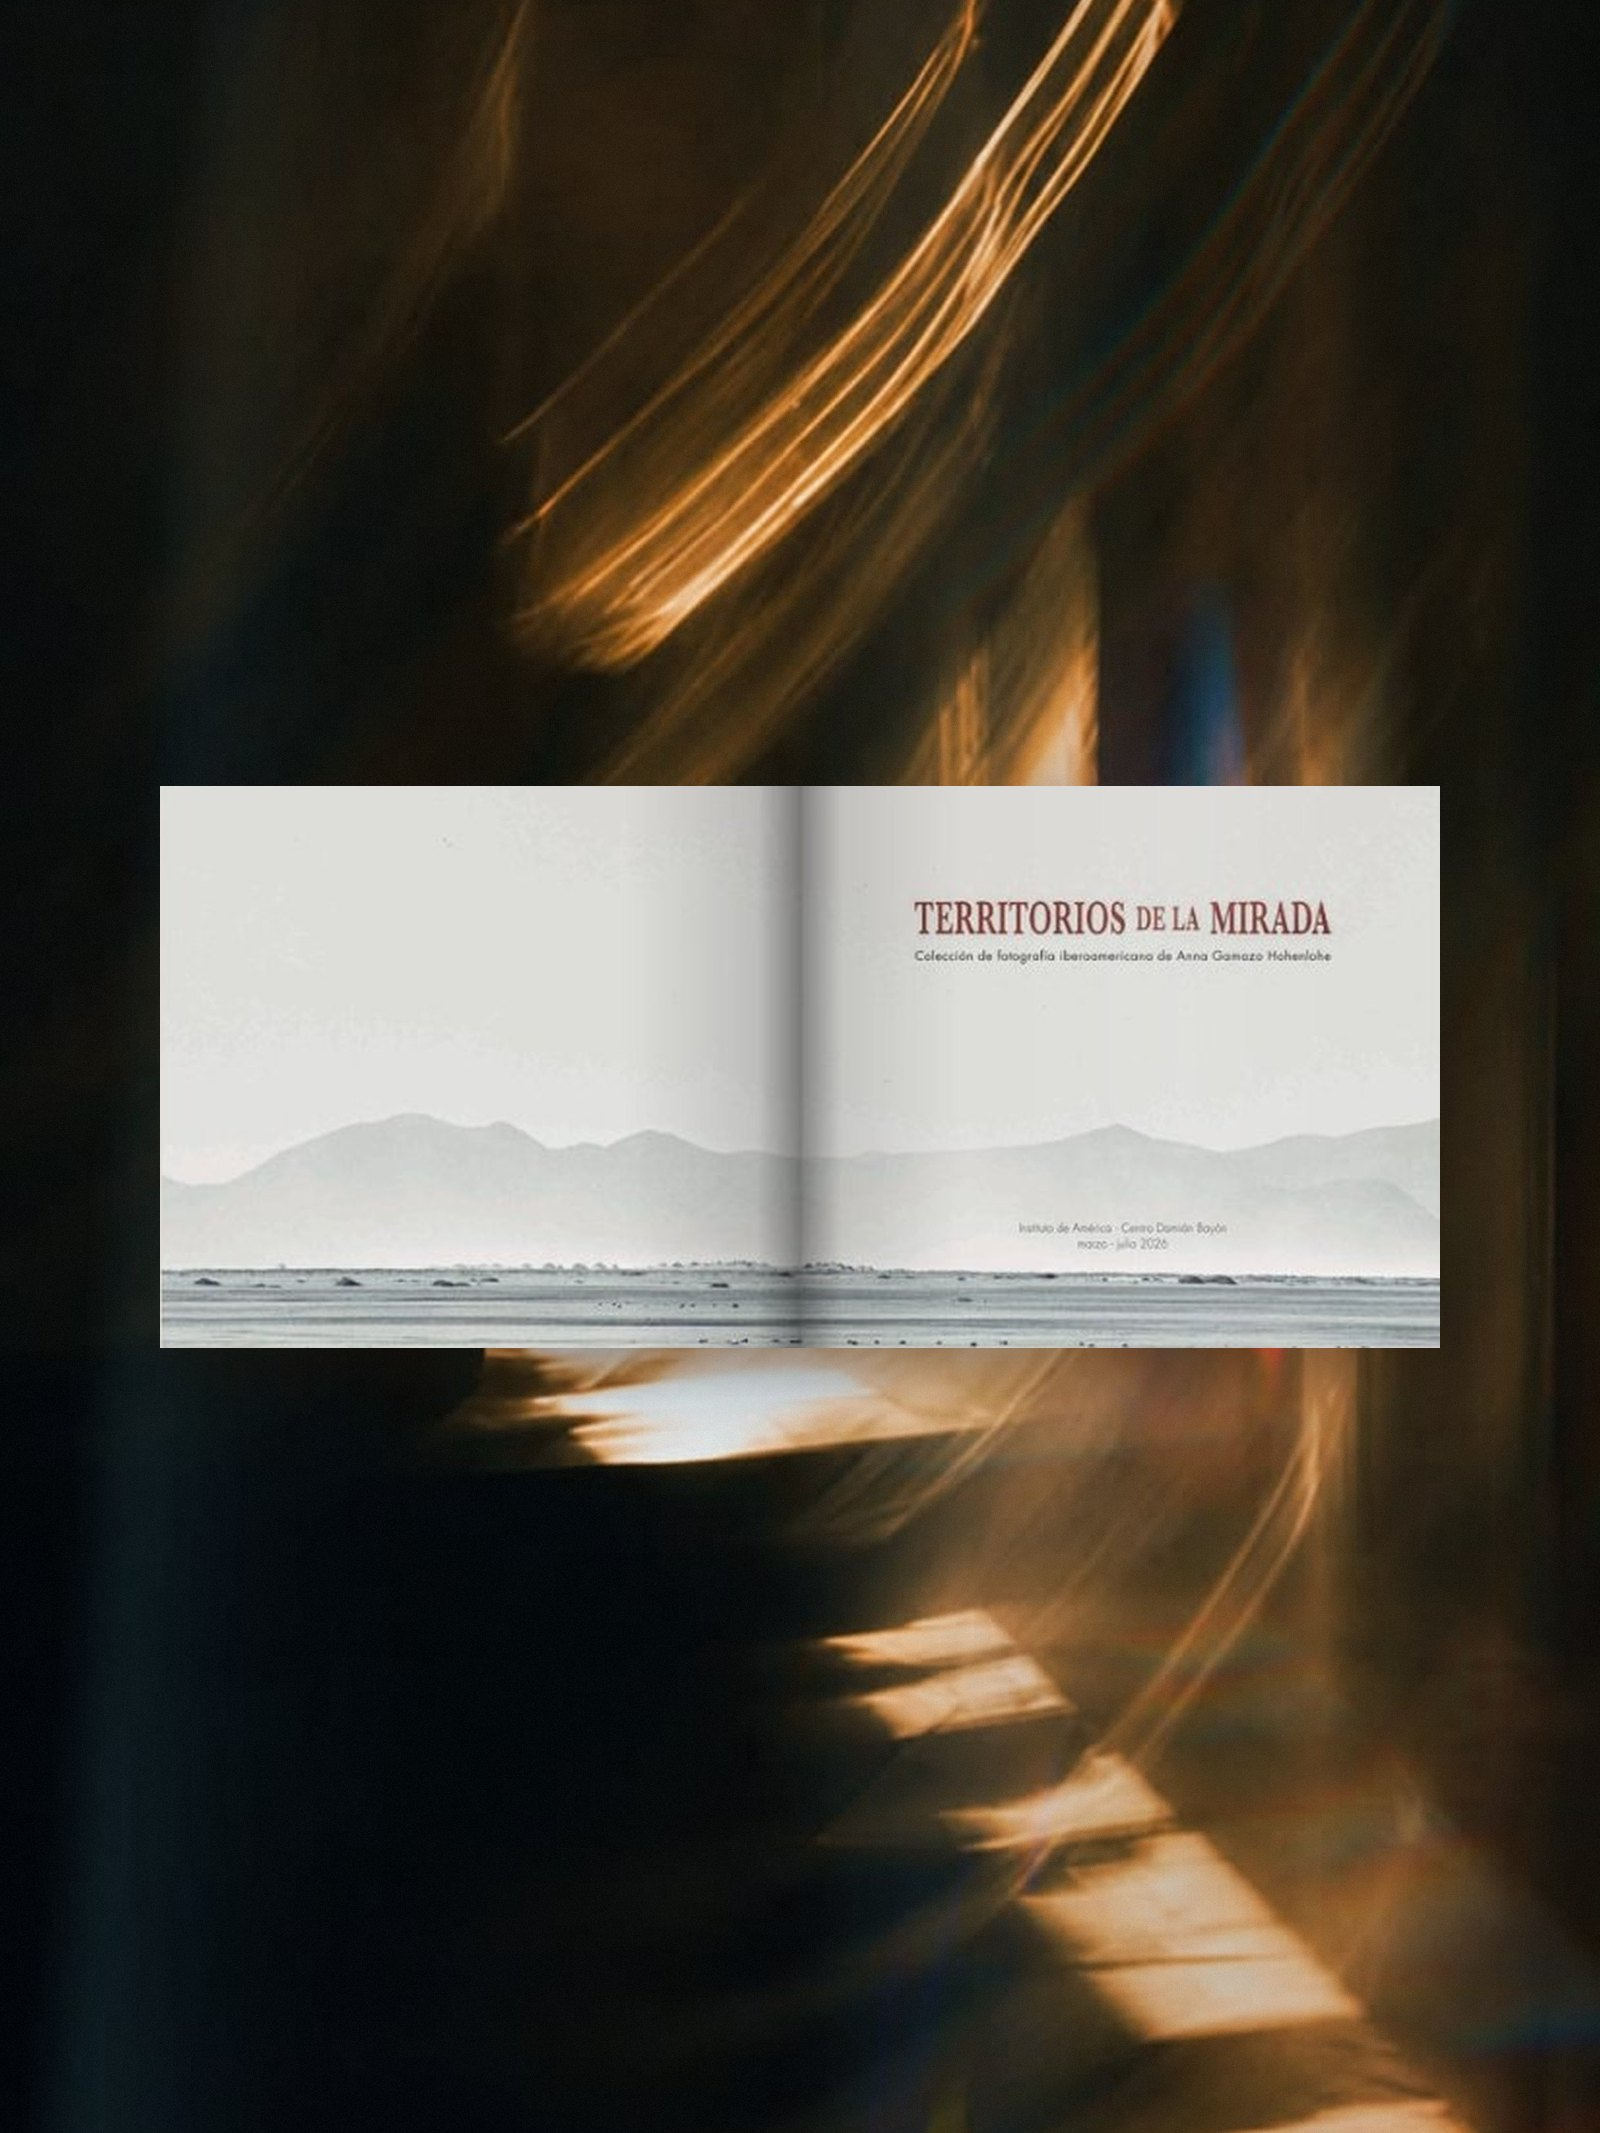
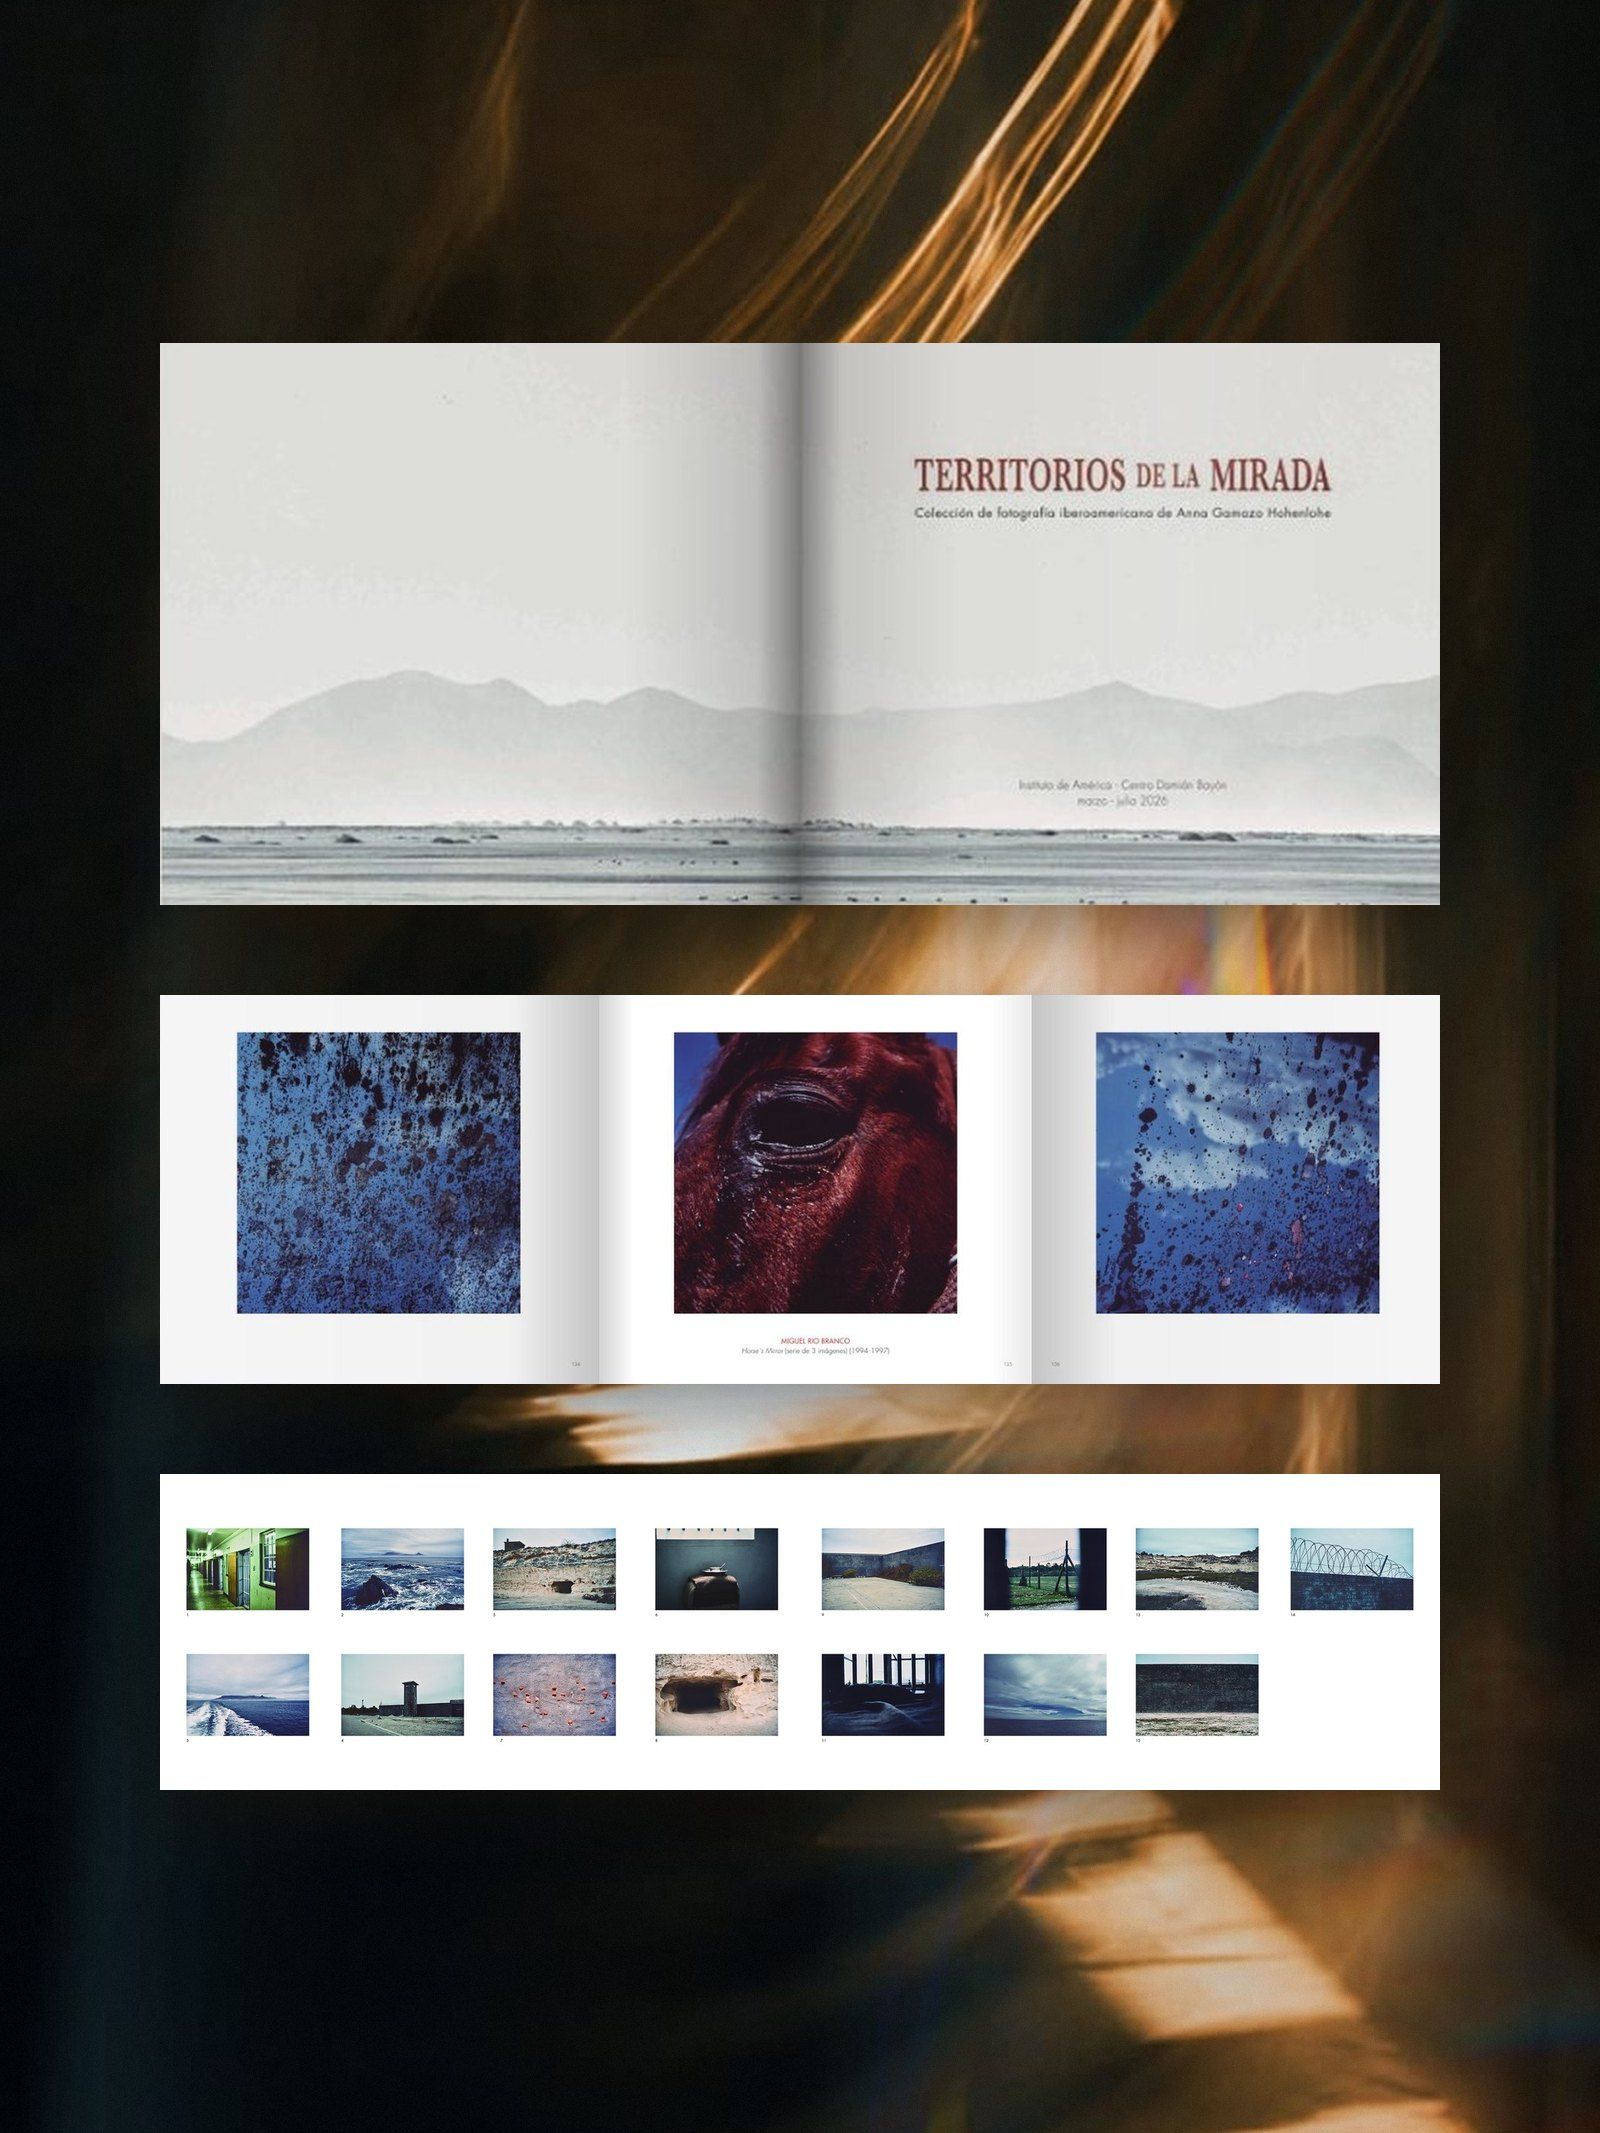
Reordena escenas (Tortajada, En noir, Coín) y Territorios en dos fotos
Claude-Session: https://claude.ai/code/session_014ZHEqD2MNxqjAg6cJYzQom

diff --git a/web/sitio/contenido.js b/web/sitio/contenido.js
@@ -121,7 +121,7 @@ window.CONTENIDO = {
         portada: "fotos/proyectos/01-la-tortajada-portada.jpg",
         detalle: "fotos/proyectos/01-la-tortajada-detalle.jpg",
         completa: "fotos/proyectos/01-la-tortajada-completa.jpg",
-        escenas: ["fotos/proyectos/01-la-tortajada-interior-1.jpg","fotos/proyectos/01-la-tortajada-interior-2.jpg","fotos/proyectos/01-la-tortajada-interior-3.jpg"],
+        escenas: ["fotos/proyectos/01-la-tortajada-interior-2.jpg","fotos/proyectos/01-la-tortajada-interior-3.jpg","fotos/proyectos/01-la-tortajada-interior-1.jpg"],
       },
       {
         titulo: "Territorios de la mirada",
@@ -129,7 +129,7 @@ window.CONTENIDO = {
         portada: "fotos/proyectos/02-territorios-de-la-mirada-portada.jpg",
         detalle: "fotos/proyectos/02-territorios-de-la-mirada-detalle.jpg",
         completa: "fotos/proyectos/02-territorios-de-la-mirada-completa.jpg",
-        escenas: ["fotos/proyectos/02-territorios-de-la-mirada-interior-1.jpg","fotos/proyectos/02-territorios-de-la-mirada-interior-2.jpg","fotos/proyectos/02-territorios-de-la-mirada-interior-3.jpg","fotos/proyectos/02-territorios-de-la-mirada-interior-4.jpg"],
+        escenas: ["fotos/proyectos/02-territorios-de-la-mirada-interior-1.jpg","fotos/proyectos/02-territorios-de-la-mirada-interior-2.jpg"],
       },
       {
         titulo: "Santa Fe—Mauthausen—Santa Fe",
@@ -145,13 +145,7 @@ window.CONTENIDO = {
         portada: "fotos/proyectos/05-pedro-zamora-en-noir-portada.jpg",
         detalle: "fotos/proyectos/05-pedro-zamora-en-noir-detalle.jpg",
         completa: "fotos/proyectos/05-pedro-zamora-en-noir-completa.jpg",
-        escenas: [
-          "fotos/proyectos/05-pedro-zamora-en-noir-interior-1.jpg",
-          "fotos/proyectos/05-pedro-zamora-en-noir-interior-2.jpg",
-          "fotos/proyectos/05-pedro-zamora-en-noir-interior-3.jpg",
-          "fotos/proyectos/05-pedro-zamora-en-noir-interior-4.jpg",
-          "fotos/proyectos/05-pedro-zamora-en-noir-interior-5.jpg",
-        ],
+        escenas: ["fotos/proyectos/05-pedro-zamora-en-noir-interior-1.jpg","fotos/proyectos/05-pedro-zamora-en-noir-interior-3.jpg","fotos/proyectos/05-pedro-zamora-en-noir-interior-2.jpg","fotos/proyectos/05-pedro-zamora-en-noir-interior-4.jpg","fotos/proyectos/05-pedro-zamora-en-noir-interior-5.jpg"],
       },
       {
         titulo: "Primitivismo y modernidad",
@@ -168,7 +162,7 @@ window.CONTENIDO = {
         portada: "fotos/proyectos/06-santa-maria-de-coin-portada.jpg",
         detalle: "fotos/proyectos/06-santa-maria-de-coin-detalle.jpg",
         completa: "fotos/proyectos/06-santa-maria-de-coin-completa.jpg",
-        escenas: ["fotos/proyectos/06-santa-maria-de-coin-interior-1.jpg","fotos/proyectos/06-santa-maria-de-coin-interior-2.jpg","fotos/proyectos/06-santa-maria-de-coin-interior-3.jpg"],
+        escenas: ["fotos/proyectos/06-santa-maria-de-coin-interior-3.jpg","fotos/proyectos/06-santa-maria-de-coin-interior-1.jpg","fotos/proyectos/06-santa-maria-de-coin-interior-2.jpg"],
       },
       ],
     },

diff --git a/web/scripts/territorios_fondos.py b/web/scripts/territorios_fondos.py
@@ -1,10 +1,10 @@
 """Territorios de la mirada: monta los interiores sobre los tres fondos del cliente.
 
-Cada doble va suelto, en horizontal, sobre un fondo en formato 3:4 (el cuarto reutiliza el primero, volteado). Los originales sobre negro están en
+Foto 1: portadilla, tríptico y cuatríptico juntos; foto 2: La Revolución Mexicana suelta. Formato 3:4. Los originales sobre negro están en
 web/referencias-mockups/territorios-dobles/1..4.jpg.
 
-Uso: python3 web/scripts/territorios_fondos.py <fondo1> <fondo2> <fondo3>
-Escribe fotos/proyectos/02-territorios-de-la-mirada-interior-1..3.jpg.
+Uso: python3 web/scripts/territorios_fondos.py <fondo1> <fondo2>
+Escribe fotos/proyectos/02-territorios-de-la-mirada-interior-1..2.jpg.
 """
 import sys
 from pathlib import Path
@@ -23,11 +23,17 @@ def alto(sp):
     return round(sp.height * sf.W * sf.ANCHO / sp.width)
 
 def main(fondos):
-    b = [sf.fondo(f) for f in fondos]
-    b.append(b[0].transpose(Image.FLIP_LEFT_RIGHT))  # el cuarto reutiliza el primer fondo, volteado
-    for i in range(4):
-        sf.pon(b[i], doble(i + 1), sf.H * .5)
-        b[i].save(sf.SITIO / f"02-territorios-de-la-mirada-interior-{i + 1}.jpg", quality=86, optimize=True, progressive=True)
+    b = [sf.fondo(f) for f in fondos[:2]]
+    piezas = [doble(1), doble(3), doble(4)]  # portadilla, tríptico y cuatríptico en la misma foto
+    hs = [alto(p) for p in piezas]
+    sep = 90
+    y = sf.H / 2 - (sum(hs) + sep * 2) / 2
+    for p, h in zip(piezas, hs):
+        sf.pon(b[0], p, y + h / 2)
+        y += h + sep
+    sf.pon(b[1], doble(2), sf.H * .5)
+    for i, im in enumerate(b, 1):
+        im.save(sf.SITIO / f"02-territorios-de-la-mirada-interior-{i}.jpg", quality=86, optimize=True, progressive=True)
 
 if __name__ == "__main__":
     main(sys.argv[1:4])
